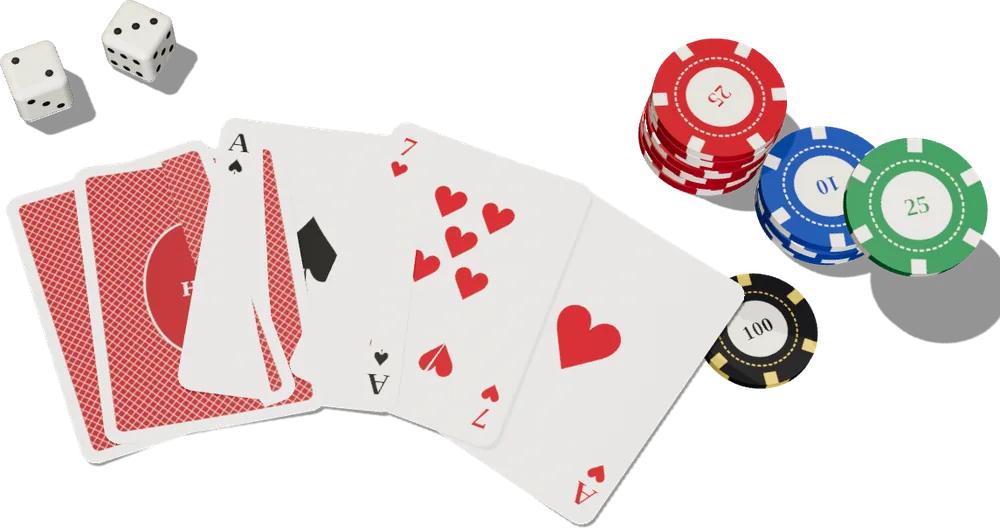
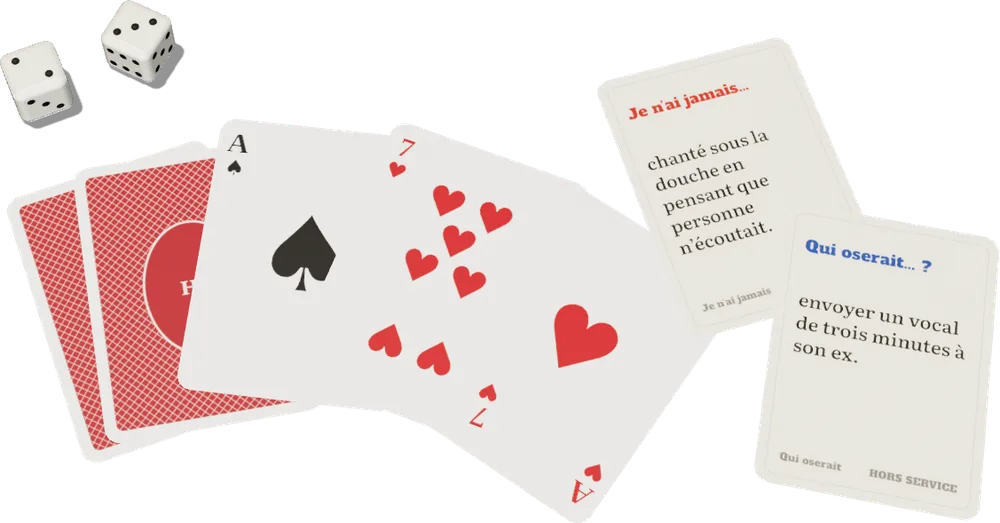
Fond de table : cartes de l'app, pyramide à plat, pizza, échelle commune des objets
Claude-Session: https://claude.ai/code/session_01Lwo2HvSKVmBUxSq2jgCHg9

diff --git a/tools/rendu-table/scene.js b/tools/rendu-table/scene.js
@@ -3,6 +3,9 @@ import * as THREE from 'three';
 import { RoundedBoxGeometry } from 'three/addons/geometries/RoundedBoxGeometry.js';
 import { RoomEnvironment } from 'three/addons/environments/RoomEnvironment.js';
 
+for (const [n, f, w] of [['Alfa Slab One', 'alfa-slab-one-400.woff2', '400'], ['Literata', 'literata-600.woff2', '600']]) {
+  const ff = new FontFace(n, await (await fetch('./' + f)).arrayBuffer(), { weight: w }); await ff.load(); document.fonts.add(ff);
+}
 const Q = new URLSearchParams(location.search);
 const W = Number(Q.get('w') || 1000), H = Number(Q.get('h') || 1000);
 const SCENE = Q.get('s') || 'verre';
@@ -29,11 +32,12 @@ const cam = new THREE.PerspectiveCamera(24, W / H, 1, 1000);
 const dist = (span / 2) / Math.tan(THREE.MathUtils.degToRad(24 / 2)) / (W / H);
 const tilt = Number(Q.get('tilt') || 0.42);
 cam.position.set(0, dist * Math.cos(tilt), dist * Math.sin(tilt));
-cam.lookAt(0, 0, 0);
+const LY = Number(Q.get('ly') || 0);
+cam.position.y += LY; cam.lookAt(0, LY, 0);
 
 scene.add(new THREE.HemisphereLight(0xfff4e0, 0x203020, 0.55));
 const key = new THREE.DirectionalLight(0xfff0d8, 2.0);
-key.position.set(-18, 40, -10);
+key.position.set(-9, 50, -5);
 key.castShadow = true;
 key.shadow.mapSize.set(4096, 4096);
 key.shadow.camera.left = -40; key.shadow.camera.right = 40; key.shadow.camera.top = 40; key.shadow.camera.bottom = -40;
@@ -117,12 +121,14 @@ function cardBack() {
 }
 const cornerAlpha = canvasTex(630, 880, (g, w, h) => { g.fillStyle = '#000'; g.fillRect(0, 0, w, h); rrect(g, 0, 0, w, h, 44); g.fillStyle = '#fff'; g.fill(); }, false);
 
-function card(tex, x, z, rot, y = 0.03, bend = 0.12) {
+let cardN = 0;
+function card(tex, x, z, rot, y = 0.03, bend = 0) {
   const geo = new THREE.PlaneGeometry(6.3, 8.8, 12, 16);
   const p = geo.attributes.position;
   for (let i = 0; i < p.count; i++) { const u = p.getX(i) / 3.15; p.setZ(i, bend * (u * u)); }
   geo.computeVertexNormals();
-  const m = new THREE.MeshStandardMaterial({ map: tex, alphaMap: cornerAlpha, alphaTest: 0.5, roughness: 0.55, side: THREE.DoubleSide });
+  const m = new THREE.MeshStandardMaterial({ map: tex, alphaMap: cornerAlpha, alphaTest: 0.5, roughness: 0.55, polygonOffset: true, polygonOffsetFactor: -cardN, polygonOffsetUnits: -cardN * 4 });
+  cardN += 1;
   const mesh = new THREE.Mesh(geo, m);
   mesh.rotation.x = -Math.PI / 2; mesh.rotation.z = rot;
   mesh.position.set(x, y, z);
@@ -253,31 +259,233 @@ function cap(x, z, colorTop, upside = false) {
   sk.castShadow = true; top.castShadow = true; sk.receiveShadow = true; scene.add(g);
 }
 
+
+// ---------------------------------------------------------------- tapis de roulette (fond des menus)
+const ROUGES = new Set([1, 3, 5, 7, 9, 12, 14, 16, 18, 19, 21, 23, 25, 27, 30, 32, 34, 36]);
+// dispose le tapis à la verticale (zéro en haut) ; renvoie aussi le centre de chaque case, en fraction de la texture
+function rouletteLayout(TW, TH) {
+  const mx = TW * 0.06, top = TH * 0.05, zeroH = TH * 0.1, colH = TH * 0.07, bottom = TH * 0.05;
+  const unit = (TW - mx * 2) / 5;
+  const rowH = (TH - top - zeroH - colH - bottom) / 12;
+  const gx = mx + unit * 2, gy = top + zeroH;
+  return { mx, top, zeroH, colH, unit, rowH, gx, gy };
+}
+function cellCenter(L, n, TW, TH) {
+  const r = Math.floor((n - 1) / 3), c = (n - 1) % 3;
+  return [(L.gx + (c + 0.5) * L.unit) / TW, (L.gy + (r + 0.5) * L.rowH) / TH];
+}
+function rouletteTex(TW, TH) {
+  const L = rouletteLayout(TW, TH);
+  const tex = canvasTex(TW, TH, (g) => {
+    // feutre
+    g.fillStyle = '#1B6B44'; g.fillRect(0, 0, TW, TH);
+    const img = g.getImageData(0, 0, TW, TH); const d = img.data;
+    for (let i = 0; i < d.length; i += 4) { const n = (Math.random() - 0.5) * 22; d[i] += n * 0.6; d[i + 1] += n; d[i + 2] += n * 0.7; }
+    g.putImageData(img, 0, 0);
+    const ink = '#EADFAE';
+    const lw = Math.max(6, TW * 0.004);
+    g.lineJoin = 'round';
+    const box = (x, y, w, h, fill) => { if (fill) { g.fillStyle = fill; g.fillRect(x + lw, y + lw, w - lw * 2, h - lw * 2); } g.strokeStyle = ink; g.lineWidth = lw; g.strokeRect(x, y, w, h); };
+    const txt = (t, x, y, size, rot = 0, col = ink) => { g.save(); g.translate(x, y); g.rotate(rot); g.fillStyle = col; g.textAlign = 'center'; g.textBaseline = 'middle'; g.font = `700 ${size}px "DejaVu Serif"`; g.fillText(t, 0, 0); g.restore(); };
+    // zéro : case en pointe
+    g.beginPath(); g.moveTo(L.gx, L.gy); g.lineTo(L.gx, L.top + L.zeroH * 0.35); g.lineTo(L.gx + L.unit * 1.5, L.top); g.lineTo(L.gx + L.unit * 3, L.top + L.zeroH * 0.35); g.lineTo(L.gx + L.unit * 3, L.gy); g.closePath();
+    g.fillStyle = '#167A46'; g.fill(); g.strokeStyle = ink; g.lineWidth = lw; g.stroke();
+    txt('0', L.gx + L.unit * 1.5, L.top + L.zeroH * 0.58, L.unit * 0.42);
+    // numéros
+    for (let n = 1; n <= 36; n++) {
+      const r = Math.floor((n - 1) / 3), c = (n - 1) % 3;
+      const x = L.gx + c * L.unit, y = L.gy + r * L.rowH;
+      box(x, y, L.unit, L.rowH, ROUGES.has(n) ? '#A8161F' : '#151515');
+      txt(String(n), x + L.unit / 2, y + L.rowH / 2 + 2, L.rowH * 0.5, 0, '#F3EAD0');
+    }
+    // colonnes
+    for (let c = 0; c < 3; c++) { const x = L.gx + c * L.unit, y = L.gy + 12 * L.rowH; box(x, y, L.unit, L.colH); txt('2 à 1', x + L.unit / 2, y + L.colH / 2, L.colH * 0.3); }
+    // douzaines
+    const dz = ['P12', 'M12', 'D12'];
+    for (let k = 0; k < 3; k++) { const x = L.mx + L.unit, y = L.gy + k * 4 * L.rowH; box(x, y, L.unit, L.rowH * 4); txt(dz[k], x + L.unit / 2, y + L.rowH * 2, L.unit * 0.3, -Math.PI / 2); }
+    // chances simples
+    const ch = ['MANQUE', 'PAIR', '◆', '◆', 'IMPAIR', 'PASSE'];
+    for (let k = 0; k < 6; k++) {
+      const x = L.mx, y = L.gy + k * 2 * L.rowH;
+      box(x, y, L.unit, L.rowH * 2);
+      if (k === 2 || k === 3) {
+        g.save(); g.translate(x + L.unit / 2, y + L.rowH); g.beginPath(); const dw = L.unit * 0.32, dh = L.rowH * 0.62;
+        g.moveTo(0, -dh); g.lineTo(dw, 0); g.lineTo(0, dh); g.lineTo(-dw, 0); g.closePath(); g.fillStyle = k === 2 ? '#A8161F' : '#151515'; g.fill(); g.strokeStyle = ink; g.lineWidth = lw * 0.7; g.stroke(); g.restore();
+      } else txt(ch[k], x + L.unit / 2, y + L.rowH, L.unit * 0.2, -Math.PI / 2);
+    }
+    // usure de l'encre
+    const im2 = g.getImageData(0, 0, TW, TH); const e = im2.data;
+    for (let i = 0; i < e.length; i += 4) { if (e[i] > 180 && e[i + 1] > 170) { const k = 0.85 + Math.random() * 0.15; e[i] *= k; e[i + 1] *= k; e[i + 2] *= k; } }
+    g.putImageData(im2, 0, 0);
+  });
+  return { tex, L };
+}
+function feltNormal(n) {
+  const t = canvasTex(n, n, (g) => {
+    const img = g.createImageData(n, n); const d = img.data;
+    for (let i = 0; i < d.length; i += 4) { d[i] = 128 + (Math.random() - 0.5) * 60; d[i + 1] = 128 + (Math.random() - 0.5) * 60; d[i + 2] = 255; d[i + 3] = 255; }
+    g.putImageData(img, 0, 0);
+  }, false);
+  t.wrapS = t.wrapT = THREE.RepeatWrapping; t.repeat.set(30, 60);
+  return t;
+}
+
+
+// ---------------------------------------------------------------- cartes de l'app (crème, titre Alfa Slab, texte Literata)
+function wrap(g, t, maxW) { const out = []; let line = ''; for (const w of t.split(' ')) { const tt = line ? line + ' ' + w : w; if (g.measureText(tt).width > maxW && line) { out.push(line); line = w; } else line = tt; } out.push(line); return out; }
+function appCard(head, body, tag, col = '#B8261A') {
+  return canvasTex(630, 880, (g, w, h) => {
+    rrect(g, 0, 0, w, h, 44); g.fillStyle = '#F6EFDF'; g.fill();
+    g.save(); g.clip(); grain(g, w, h, 0.03); g.restore();
+    g.strokeStyle = 'rgba(28,25,21,.18)'; g.lineWidth = 3; rrect(g, 30, 30, w - 60, h - 60, 26); g.stroke();
+    g.fillStyle = col; g.font = '400 50px "Alfa Slab One"'; g.textAlign = 'left';
+    wrap(g, head, w - 130).forEach((l, i) => g.fillText(l, 66, 150 + i * 60));
+    g.fillStyle = '#1C1915'; g.font = '600 56px Literata';
+    wrap(g, body, w - 130).forEach((l, i) => g.fillText(l, 66, 330 + i * 72));
+    g.fillStyle = 'rgba(28,25,21,.55)'; g.font = '400 30px "Alfa Slab One"'; g.fillText(tag, 66, h - 74);
+    g.textAlign = 'right'; g.fillText('HORS SERVICE', w - 66, h - 74);
+  });
+}
+// ---------------------------------------------------------------- château de cartes
+function cardSolid(tex, back) {
+  // carte en volume très fin, recto / verso
+  const geo = new THREE.BoxGeometry(6.3, 0.03, 8.8);
+  const edge = new THREE.MeshStandardMaterial({ color: 0xF4EEE0, roughness: 0.6 });
+  const top = new THREE.MeshStandardMaterial({ map: tex, alphaMap: cornerAlpha, alphaTest: 0.5, roughness: 0.55 });
+  const bot = new THREE.MeshStandardMaterial({ map: back, alphaMap: cornerAlpha, alphaTest: 0.5, roughness: 0.55 });
+  const m = new THREE.Mesh(geo, [edge, edge, top, bot, edge, edge]);
+  m.castShadow = true; m.receiveShadow = true; return m;
+}
+function house(x0, z0, levels, faces, back, ry = 0) {
+  const grp = new THREE.Group(); grp.position.set(x0, 0, z0); grp.rotation.y = ry; scene.add(grp);
+  const lean = 0.36; // inclinaison des cartes par rapport à la verticale
+  const hh = 8.8 * Math.cos(lean), half = 8.8 * Math.sin(lean);
+  let k = 0;
+  for (let lv = 0; lv < levels; lv++) {
+    const n = levels - lv, y0 = lv * (hh + 0.03), span = 2 * half + 0.6;
+    const xs = (i) => (i - (n - 1) / 2) * span;
+    for (let i = 0; i < n; i++) {
+      for (const sgn of [-1, 1]) {
+        const c = cardSolid(faces[k++ % faces.length], back);
+        c.rotation.order = 'YXZ'; c.rotation.z = -sgn * lean; c.rotation.x = 0;
+        // carte debout : on la fait pivoter pour que la grande dimension soit verticale
+        c.geometry = new THREE.BoxGeometry(0.03, 8.8, 6.3);
+        c.material = [c.material[2], c.material[3], c.material[0], c.material[0], c.material[0], c.material[0]];
+        c.position.set(xs(i) - sgn * half / 2, y0 + hh / 2, 0);
+        grp.add(c);
+      }
+      if (i < n - 1 && lv < levels) {
+        const f = cardSolid(back, back); f.rotation.y = Math.PI / 2; f.position.set((xs(i) + xs(i + 1)) / 2, y0 + hh + 0.02, 0); grp.add(f);
+      }
+    }
+  }
+  return grp;
+}
+// ---------------------------------------------------------------- pizza
+function pizzaTex() {
+  return canvasTex(1024, 1024, (g, w) => {
+    const c = w / 2;
+    let gr = g.createRadialGradient(c, c, c * 0.8, c, c, c); gr.addColorStop(0, '#D99A4E'); gr.addColorStop(0.7, '#C07A35'); gr.addColorStop(1, '#8E5524');
+    g.fillStyle = gr; g.beginPath(); g.arc(c, c, c, 0, Math.PI * 2); g.fill();
+    for (let i = 0; i < 260; i++) { const a = rnd() * 6.283, r = c * (0.86 + rnd() * 0.12); g.fillStyle = `rgba(70,35,10,${0.15 + rnd() * 0.35})`; g.beginPath(); g.arc(c + Math.cos(a) * r, c + Math.sin(a) * r, 2 + rnd() * 9, 0, 6.283); g.fill(); }
+    g.fillStyle = '#B5341C'; g.beginPath(); g.arc(c, c, c * 0.84, 0, Math.PI * 2); g.fill();
+    g.save(); g.beginPath(); g.arc(c, c, c * 0.84, 0, Math.PI * 2); g.clip();
+    g.filter = 'blur(10px)';
+    for (let i = 0; i < 160; i++) { const a = rnd() * 6.283, r = Math.sqrt(rnd()) * c * 0.8; g.fillStyle = `rgba(${236 + rnd() * 16},${196 + rnd() * 30},${120 + rnd() * 40},${0.55 + rnd() * 0.35})`; g.beginPath(); g.ellipse(c + Math.cos(a) * r, c + Math.sin(a) * r, 26 + rnd() * 50, 20 + rnd() * 34, rnd() * 3, 0, 6.283); g.fill(); }
+    g.filter = 'blur(3px)';
+    for (let i = 0; i < 120; i++) { const a = rnd() * 6.283, r = Math.sqrt(rnd()) * c * 0.8; g.fillStyle = `rgba(${170 + rnd() * 40},${100 + rnd() * 30},${40 + rnd() * 20},${0.2 + rnd() * 0.3})`; g.beginPath(); g.arc(c + Math.cos(a) * r, c + Math.sin(a) * r, 4 + rnd() * 12, 0, 6.283); g.fill(); }
+    g.filter = 'none'; g.restore();
+    for (let i = 0; i < 400; i++) { const a = rnd() * 6.283, r = Math.sqrt(rnd()) * c * 0.8; g.fillStyle = `rgba(150,90,30,${rnd() * 0.25})`; g.beginPath(); g.arc(c + Math.cos(a) * r, c + Math.sin(a) * r, 3 + rnd() * 10, 0, 6.283); g.fill(); }
+    const pep = []; while (pep.length < 15) { const a = rnd() * 6.283, r = Math.sqrt(rnd()) * c * 0.7; const p = [c + Math.cos(a) * r, c + Math.sin(a) * r]; if (pep.every((q) => Math.hypot(q[0] - p[0], q[1] - p[1]) > 120)) pep.push(p); }
+    for (const [x, y] of pep) { gr = g.createRadialGradient(x - 8, y - 8, 4, x, y, 52); gr.addColorStop(0, '#B8322A'); gr.addColorStop(0.8, '#8E1F1A'); gr.addColorStop(1, '#5E120E'); g.fillStyle = gr; g.beginPath(); g.arc(x, y, 50, 0, 6.283); g.fill(); for (let k = 0; k < 6; k++) { g.fillStyle = 'rgba(240,200,160,.45)'; g.beginPath(); g.arc(x + (rnd() - 0.5) * 60, y + (rnd() - 0.5) * 60, 3 + rnd() * 4, 0, 6.283); g.fill(); } }
+    for (let i = 0; i < 40; i++) { const a = rnd() * 6.283, r = Math.sqrt(rnd()) * c * 0.75; g.fillStyle = '#3F5A1E'; g.beginPath(); g.ellipse(c + Math.cos(a) * r, c + Math.sin(a) * r, 6 + rnd() * 8, 3 + rnd() * 4, rnd() * 3, 0, 6.283); g.fill(); }
+    for (let i = 0; i < 9; i++) { const a = rnd() * 6.283, r = Math.sqrt(rnd()) * c * 0.72; const x = c + Math.cos(a) * r, y = c + Math.sin(a) * r; g.strokeStyle = '#1D1A16'; g.lineWidth = 11; g.beginPath(); g.arc(x, y, 14, 0, 6.283); g.stroke(); }
+  });
+}
+function pizza(x, z, R, missing = []) {
+  // disque découpé en 8 parts, certaines manquent
+  const tex = pizzaTex();
+  const mat = new THREE.MeshStandardMaterial({ map: tex, roughness: 0.62 });
+  const side = new THREE.MeshStandardMaterial({ color: 0xB0712F, roughness: 0.8 });
+  const grp = new THREE.Group(); grp.position.set(x, 0, z); scene.add(grp);
+  for (let i = 0; i < 8; i++) {
+    if (missing.includes(i)) continue;
+    const a0 = i * Math.PI / 4 + 0.01, a1 = (i + 1) * Math.PI / 4 - 0.01;
+    const sh = new THREE.Shape(); sh.moveTo(0, 0); sh.absarc(0, 0, R, a0, a1, false); sh.lineTo(0, 0);
+    const geo = new THREE.ExtrudeGeometry(sh, { depth: 0.45, bevelEnabled: true, bevelThickness: 0.12, bevelSize: 0.12, bevelSegments: 2, curveSegments: 24 });
+    // UV planes depuis x,y
+    const p = geo.attributes.position, uv = geo.attributes.uv; for (let k = 0; k < p.count; k++) uv.setXY(k, p.getX(k) / (2 * R) + 0.5, p.getY(k) / (2 * R) + 0.5);
+    const m = new THREE.Mesh(geo, [mat, side]); m.rotation.x = -Math.PI / 2; m.position.y = 0.06;
+    m.castShadow = true; m.receiveShadow = true; grp.add(m);
+  }
+  return grp;
+}
+function boxTex(w, h, inside) {
+  return canvasTex(w, h, (g) => {
+    g.fillStyle = inside ? '#D9C3A0' : '#C9A877'; g.fillRect(0, 0, w, h);
+    for (let i = 0; i < 90; i++) { g.strokeStyle = `rgba(110,80,40,${0.04 + rnd() * 0.06})`; g.lineWidth = 1 + rnd() * 2; const y = rnd() * h; g.beginPath(); g.moveTo(0, y); g.lineTo(w, y + (rnd() - 0.5) * 12); g.stroke(); }
+    if (inside) { for (let i = 0; i < 6; i++) { g.fillStyle = `rgba(140,80,20,${0.08 + rnd() * 0.1})`; g.beginPath(); g.ellipse(w * (0.25 + rnd() * 0.5), h * (0.25 + rnd() * 0.5), 20 + rnd() * 50, 14 + rnd() * 30, rnd() * 3, 0, 6.283); g.fill(); } }
+    else { g.fillStyle = '#A3231B'; g.textAlign = 'center'; g.font = '400 90px "Alfa Slab One"'; g.fillText('PIZZA', w / 2, h / 2 + 10); g.font = '600 40px Literata'; g.fillText('chaude et à l’heure', w / 2, h / 2 + 70); g.strokeStyle = '#A3231B'; g.lineWidth = 8; g.strokeRect(40, 40, w - 80, h - 80); }
+    grain(g, w, h, 0.05);
+  });
+}
+function pizzaBox(x, z, S, open = 1.9) {
+  const grp = new THREE.Group(); grp.position.set(x, 0, z); scene.add(grp);
+  const T = 0.18, Hh = 2.6;
+  const cb = new THREE.MeshStandardMaterial({ color: 0xC9A877, roughness: 0.9 });
+  const inT = new THREE.MeshStandardMaterial({ map: boxTex(1024, 1024, true), roughness: 0.92 });
+  const outT = new THREE.MeshStandardMaterial({ map: boxTex(1024, 1024, false), roughness: 0.9 });
+  const add = (geo, mats, px, py, pz) => { const m = new THREE.Mesh(geo, mats); m.position.set(px, py, pz); m.castShadow = true; m.receiveShadow = true; grp.add(m); return m; };
+  add(new THREE.BoxGeometry(S, T, S), [cb, cb, inT, cb, cb, cb], 0, T / 2, 0);
+  add(new THREE.BoxGeometry(S, Hh, T), cb, 0, Hh / 2, S / 2 - T / 2);
+  add(new THREE.BoxGeometry(S, Hh, T), cb, 0, Hh / 2, -S / 2 + T / 2);
+  add(new THREE.BoxGeometry(T, Hh, S), cb, S / 2 - T / 2, Hh / 2, 0);
+  add(new THREE.BoxGeometry(T, Hh, S), cb, -S / 2 + T / 2, Hh / 2, 0);
+  // couvercle ouvert, charnière à l'arrière
+  const hinge = new THREE.Group(); hinge.position.set(0, Hh, -S / 2); grp.add(hinge);
+  const lid = new THREE.Mesh(new THREE.BoxGeometry(S, T, S), [cb, cb, outT, inT, cb, cb]);
+  lid.position.set(0, 0, S / 2); lid.castShadow = true; lid.receiveShadow = true; hinge.add(lid);
+  hinge.rotation.x = -open;
+  return grp;
+}
+
 // ---------------------------------------------------------------- compositions
 if (SCENE === 'verre') {
   coaster(0, 3); pint(0, 3);
-  cap(7.2, 7.8, '#1E4E8A'); cap(-6.6, 8.8, '#B3202A', true);
+  cap(7.2, 7.8, '#1E4E8A'); cap(-6.6, 8.8, '#B3202A');
 }
 if (SCENE === 'cartes') {
   const back = cardBack();
   card(back, -7, 1.5, 0.35, 0.03);
-  card(back, -5.6, 1.2, 0.18, 0.06);
-  card(cardFace('A', '♠'), -2.4, 0.4, -0.12, 0.1);
-  card(cardFace('7', '♥'), 1.6, 1.0, -0.38, 0.14);
+  card(back, -5.6, 1.2, 0.18, 0.08);
+  card(cardFace('A', '♠'), -2.4, 0.4, -0.12, 0.13);
+  card(cardFace('7', '♥'), 1.6, 1.0, -0.38, 0.18);
   card(cardFace('A', '♥'), 5.4, 3.1, -0.62, 0.03);
-  stack('rouge', 9.6, -3.8, 7); stack('bleu', 12.8, -1.4, 4);
-  chip('noir', 12, -6.6, 0, 0.0, 0.0); chip('rouge', 7.4, -7.4, 0, 0.0, 0.0);
-  chip('vert', 14.6, 3.2, 0.2, 0.18, 0);
+  card(appCard('Je n’ai jamais…', 'chanté sous la douche en pensant que personne n’écoutait.', 'Je n’ai jamais'), 10.6, -2.2, 0.28, 0.03);
+  card(appCard('Qui oserait… ?', 'envoyer un vocal de trois minutes à son ex.', 'Qui oserait', '#1F4FA0'), 14.2, 3.4, -0.2, 0.08);
   die(-10.6, -5.2, 0.4, 2); die(-7.6, -6.6, 1.1, 4);
 }
-if (SCENE === 'jetons') {
+if (SCENE === 'pyramide') {
+  // le tombeau de Toutankhamon : pyramide à plat, la base déjà en partie retournée
   const back = cardBack();
-  for (let i = 0; i < 9; i++) card(back, -3 + i * 0.03, -0.6 - i * 0.02, 0.22, 0.03 + i * 0.035, 0.02);
-  stack('noir', 5.2, -3.4, 10); stack('rouge', 7.6, 0.6, 6); stack('vert', 4.4, 3.6, 3);
-  chip('bleu', -8, 5.2, 0); chip('rouge', -6.2, 7.2, 0);
-  die(1, 7.4, 0.8, 0);
+  const up = { '0-0': cardFace('7', '♥'), '0-1': cardFace('A', '♠'), '0-2': cardFace('3', '♣') };
+  const rows = 4, dx = 7.0, dz = 9.6;
+  for (let r = 0; r < rows; r++) {
+    const n = rows - r;
+    for (let i = 0; i < n; i++) {
+      const x = (i - (n - 1) / 2) * dx + (rnd() - 0.5) * 0.35, z = (rows / 2 - r - 0.5) * dz + (rnd() - 0.5) * 0.35;
+      card(up[`${r}-${i}`] || back, x, z, (rnd() - 0.5) * 0.08, 0.03);
+    }
+  }
+  // la pioche à côté
+  for (let i = 0; i < 6; i++) card(back, 16 + i * 0.03, 10.5 - i * 0.03, 0.3, 0.03 + i * 0.05);
 }
-
+if (SCENE === 'pizza') {
+  pizzaBox(0, 0, 26);
+  pizza(0, 0, 11.6, [1, 2]);
+  // une part posée à côté
+  const p = pizza(0, 0, 11.6, [0, 1, 2, 3, 4, 5, 6]); p.rotation.y = 2.6; p.position.set(24, 0, 2);
+}
 renderer.render(scene, cam);
 // rendu progressif : un deuxième passage pour la transmission
 renderer.render(scene, cam);

diff --git a/src/styles.css b/src/styles.css
@@ -2065,8 +2065,8 @@ h3 { font-size: 1.1rem; }
 :root .choice:nth-child(odd) { transform: rotate(-1.2deg); }
 :root .choice:nth-child(even) { transform: rotate(1deg); }
 :root .choice::after { display: none; }
-:root .choice::before { content: 'A\A♠'; white-space: pre; position: absolute; left: 18px; top: 14px; font: 400 1.5rem/1 var(--f-titre); text-align: center; color: #1C1915; }
-:root .choice:nth-child(2)::before { content: 'R\A♥'; color: #B8261A; }
+:root .choice::before { content: 'A\A♠'; content: 'A\A♠' / ''; white-space: pre; position: absolute; left: 18px; top: 14px; font: 400 1.5rem/1 var(--f-titre); text-align: center; color: #1C1915; }
+:root .choice:nth-child(2)::before { content: 'R\A♥'; content: 'R\A♥' / ''; color: #B8261A; }
 :root .choice:nth-child(3)::before { content: 'D\A♣'; }
 :root .choice:nth-child(4)::before { content: 'V\A♦'; color: #B8261A; }
 :root .choice-ico { display: none; }
@@ -2161,16 +2161,21 @@ h3 { font-size: 1.1rem; }
 :root .bz-opts li.is-wrong { background: rgba(120, 24, 14, .55); }
 :root .tp-lead { color: #F2D27A; text-transform: none; }
 
-/* ---- objets posés sur la table : rendus 3D (verre de bière sur son sous-bock, cartes, jetons, dés, capsules).
+/* ---- objets posés sur la table : rendus 3D (verre de bière, cartes de l'app, château de cartes, pizza).
    Images détourées avec leurs ombres, placées aux bords pour laisser le centre libre. */
 .obj { position: absolute; display: block; background: no-repeat center / contain; pointer-events: none; transition: opacity .25s ease; }
-.obj-verre { background-image: url(img/table-verre.webp); aspect-ratio: 560 / 561; width: 46vw; top: -3vh; right: -12vw; transform: rotate(-6deg); }
-.obj-cartes { background-image: url(img/table-cartes.webp); aspect-ratio: 1000 / 528; width: 108vw; bottom: -5vh; left: -24vw; transform: rotate(4deg); }
-.obj-jetons { background-image: url(img/table-jetons.webp); aspect-ratio: 700 / 487; width: 70vw; top: 38vh; right: -40vw; transform: rotate(-12deg); opacity: .9; }
+/* même échelle pour tous les objets : --k = longueur d'écran pour 1 cm de table, chaque largeur = taille réelle de l'image en cm */
+.ambiance { --k: 1.35vw; }
+.obj-verre { background-image: url(img/table-verre.webp); aspect-ratio: 560 / 607; width: calc(var(--k) * 18.2); top: 47vh; right: calc(var(--k) * -8); transform: rotate(-6deg); }
+.obj-cartes { background-image: url(img/table-cartes.webp); aspect-ratio: 1000 / 523; width: calc(var(--k) * 29.6); bottom: 3vh; left: calc(var(--k) * -6); transform: rotate(4deg); }
+.obj-pyramide { background-image: url(img/table-pyramide.webp); aspect-ratio: 600 / 575; width: calc(var(--k) * 36.2); bottom: 1vh; right: calc(var(--k) * -6); transform: rotate(-5deg); }
+.obj-pizza { background-image: url(img/table-pizza.webp); aspect-ratio: 820 / 679; width: calc(var(--k) * 38.9); top: -5vh; right: calc(var(--k) * -15); transform: rotate(-12deg); }
 @media (min-width: 760px) {
-  .obj-verre { width: 300px; top: 3vh; right: 3vw; }
-  .obj-cartes { width: 620px; bottom: -40px; left: -70px; }
-  .obj-jetons { width: 400px; top: auto; bottom: 6vh; right: -30px; }
+  .ambiance { --k: 12px; }
+  .obj-verre { top: 4vh; right: 3vw; }
+  .obj-cartes { bottom: 3vh; left: 3vw; }
+  .obj-pyramide { bottom: 0; right: 2vw; }
+  .obj-pizza { top: -80px; right: auto; left: -100px; transform: rotate(9deg); }
 }
 .ambiance.is-game .obj { opacity: .45; }
 @media (prefers-reduced-motion: reduce) { .obj { transition: none; } }
@@ -2212,15 +2217,11 @@ h3 { font-size: 1.1rem; }
 :root[data-theme="light"][lang] .jn-card, :root[data-theme="light"][lang] .ose-card, :root[data-theme="light"][lang] .choice, :root[data-theme="light"][lang] .gcard, :root[data-theme="light"][lang] .tp-opt, :root[data-theme="light"][lang] .bz-q { box-shadow: 0 10px 20px rgba(70, 45, 20, .3); }
 :root .ambiance { z-index: -1; }
 :root[data-theme="light"][lang] .home-foot, :root[data-theme="light"][lang] .screen > .lead, :root[data-theme="light"][lang] .screen .hint, :root[data-theme="light"][lang] .screen > p.muted { background: none; box-shadow: none; border: 0; }
-/* objets : au téléphone, le verre ne dépasse que dans le coin et les jetons restent pour les grands écrans */
-@media (max-width: 759px) {
-  .obj-verre { width: 34vw; top: -9vw; right: -13vw; }
-  .obj-jetons { display: none; }
-  .obj-cartes { width: 104vw; bottom: -7vh; left: -26vw; }
-}
 :root .panel, :root .act, :root .local-act, :root .sec, :root .register, :root .spicy-btn, :root .tbl-wrap, :root .games-h, :root .rules, :root .screen > .form, :root .screen .stack > .form, :root .invite { background: rgba(6, 18, 12, .72); }
 :root .btn, :root .icon-btn, :root .menu-item, :root .pref-btn { background: rgba(6, 18, 12, .6); }
 :root .btn:hover, :root .icon-btn:hover, :root .menu-item:hover, :root .pref-btn:hover { background: rgba(6, 18, 12, .78); }
 :root .ambiance.is-game .obj { opacity: .35; }
-@media (max-width: 759px) { .obj-verre { width: 44vw; top: auto; bottom: 24vh; right: -14vw; transform: rotate(-8deg); } }
-@media (max-width: 759px) { .obj-verre { width: 40vw; bottom: 3vh; right: -12vw; } }
+
+/* textes posés à même la table : une plaque derrière */
+:root .screen > .lead, :root .home-foot { width: fit-content; max-width: 100%; padding: 8px 12px; background: rgba(6, 18, 12, .78); }
+:root[data-theme="light"][lang] .screen > .lead, :root[data-theme="light"][lang] .home-foot { background: rgba(253, 249, 240, .92); }

diff --git a/src/ui/fx.jsx b/src/ui/fx.jsx
@@ -278,7 +278,8 @@ export function Ambiance({ game = null }) {
       <i class="feutre-lampe" />
       <i class="obj obj-verre" />
       <i class="obj obj-cartes" />
-      <i class="obj obj-jetons" />
+      <i class="obj obj-pyramide" />
+      <i class="obj obj-pizza" />
     </div>
   );
 }
